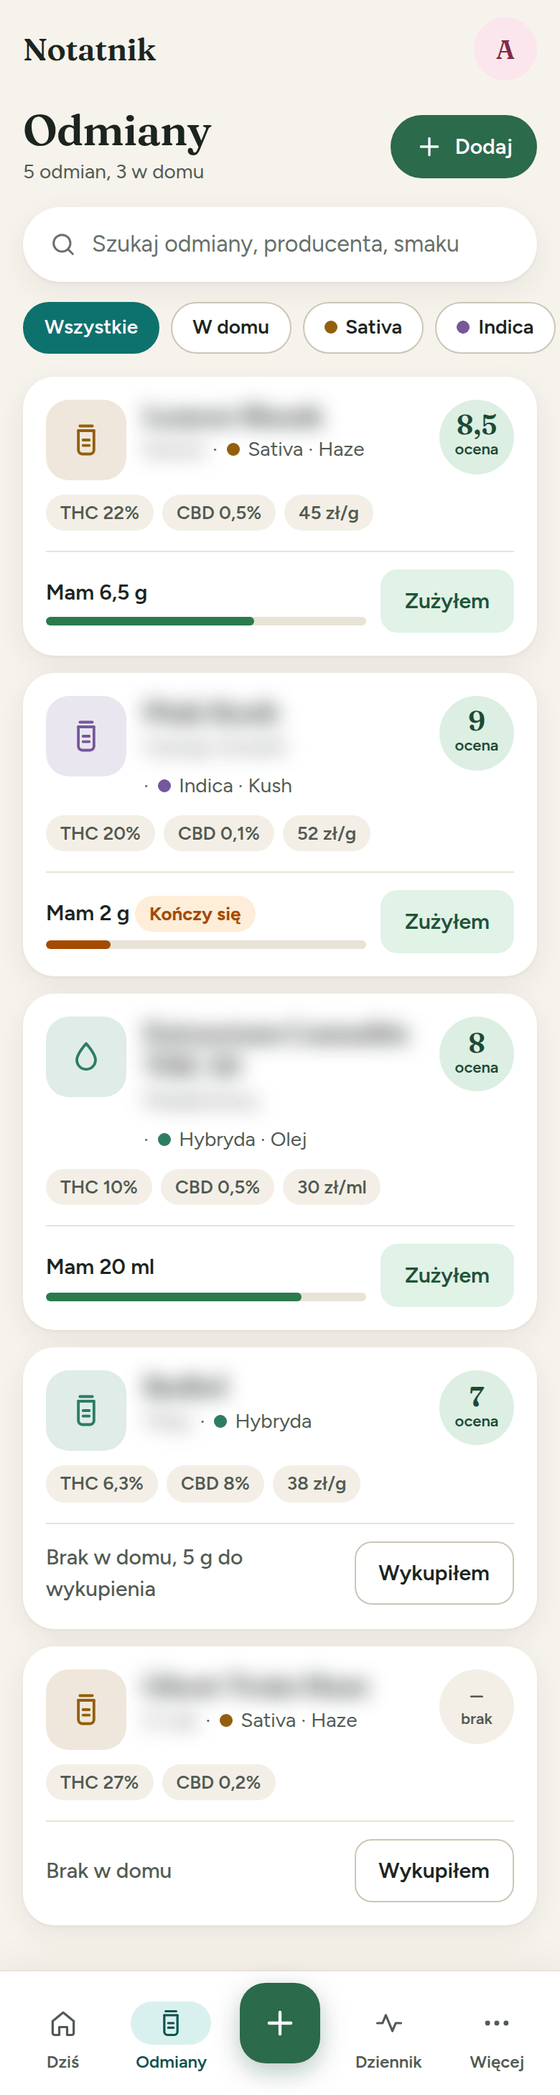
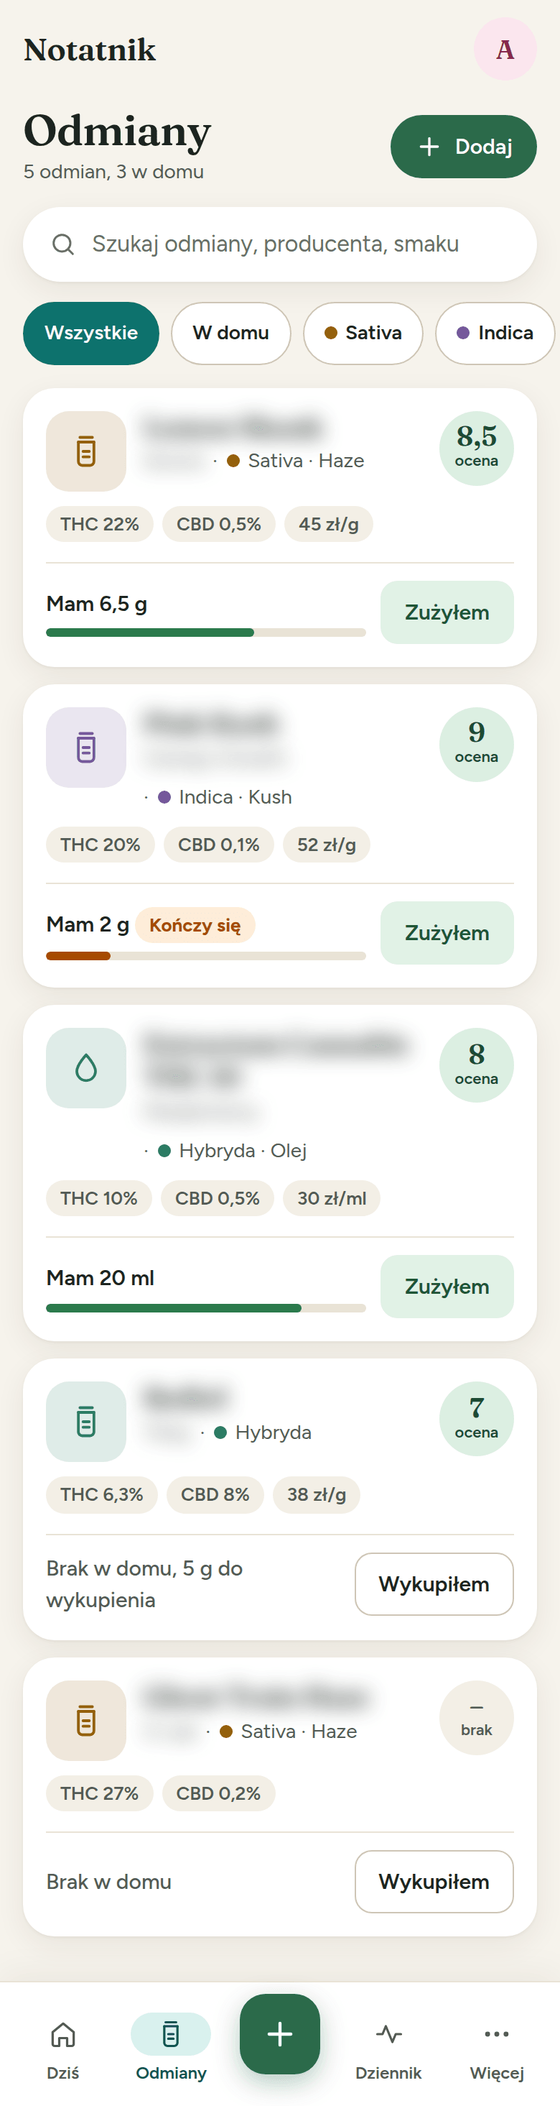
Design 3: cele dotykowe 44 px w makietach, kontrast przycisków na hero, rozłączne strumienie
Chipy i przełączniki segmentowe 44 px, przycisk drugorzędny na hero
przyciemniony (7,48:1), skrypt kontroli kontrastu w docs/design3, arkusz
Więcej i testy nawigacji w etapie 0, charts.css tylko w S3.

Claude-Session: https://claude.ai/code/session_017p6eXdBZFdhp5cmYPQACAa

diff --git a/docs/design3/a-odmiana.html b/docs/design3/a-odmiana.html
@@ -102,6 +102,7 @@ h2{font:600 19px/1.25 Fraunces,Georgia,serif;letter-spacing:-.01em}
 .s-stock{background:var(--cat-stock);color:var(--surface)}.s-journal{background:var(--cat-journal);color:var(--surface)}.s-rx{background:var(--cat-rx);color:var(--surface)}.s-strain{background:var(--cat-strain);color:var(--surface)}
 .w,.tag.w{background:var(--surface)}
 .nw{white-space:nowrap;display:inline-flex;align-items:center;gap:6px}
+.tap{display:inline-flex;align-items:center;min-height:44px}
 .shot-full .page{padding-bottom:20px}
 .ink-stock{color:var(--cat-stock-ink)}.ink-journal{color:var(--cat-journal-ink)}.ink-rx{color:var(--cat-rx-ink)}.ink-strain{color:var(--cat-strain-ink)}.ink-social{color:var(--cat-social-ink)}.ink-learn{color:var(--cat-learn-ink)}
 .sec-h{display:flex;align-items:center;gap:12px;margin-bottom:14px}
@@ -119,7 +120,7 @@ h2{font:600 19px/1.25 Fraunces,Georgia,serif;letter-spacing:-.01em}
 .btns{display:flex;gap:10px}.btns .btn{flex:1}
 .tiles{display:grid;grid-template-columns:repeat(4,1fr);gap:10px;margin-bottom:14px}
 .tile{background:var(--surface);border-radius:18px;box-shadow:var(--shadow-card);padding:12px 4px 10px;display:grid;justify-items:center;gap:6px;font-size:13px;font-weight:600;color:var(--text)}
-.chip{display:inline-flex;align-items:center;gap:6px;min-height:36px;padding:0 14px;border-radius:99px;font-size:14px;font-weight:600;background:var(--surface);color:var(--text);border:1px solid var(--sep-strong);white-space:nowrap}
+.chip{display:inline-flex;align-items:center;gap:6px;min-height:44px;padding:0 14px;border-radius:99px;font-size:14px;font-weight:600;background:var(--surface);color:var(--text);border:1px solid var(--sep-strong);white-space:nowrap}
 .chip.on{background:var(--cat-strain);color:var(--surface);border-color:var(--cat-strain)}
 .tag{display:inline-flex;align-items:center;gap:5px;padding:3px 10px;border-radius:99px;font-size:13px;font-weight:600;background:var(--surface-2);color:var(--text-2)}
 .kdot{width:9px;height:9px;border-radius:50%;display:inline-block}
@@ -186,7 +187,7 @@ h2{font:600 19px/1.25 Fraunces,Georgia,serif;letter-spacing:-.01em}
 <body>
 <header class="top"><div class="brand"><svg class="leaf" width="26" height="26" viewBox="0 0 100 100" fill="currentColor" aria-hidden="true"><ellipse cx="50" cy="46" rx="6" ry="40" transform="rotate(0 50 86)"/><ellipse cx="50" cy="52" rx="6" ry="34" transform="rotate(-28 50 86)"/><ellipse cx="50" cy="52" rx="6" ry="34" transform="rotate(28 50 86)"/><ellipse cx="50" cy="59" rx="5" ry="27" transform="rotate(-56 50 86)"/><ellipse cx="50" cy="59" rx="5" ry="27" transform="rotate(56 50 86)"/><ellipse cx="50" cy="68" rx="5" ry="18" transform="rotate(-80 50 86)"/><ellipse cx="50" cy="68" rx="5" ry="18" transform="rotate(80 50 86)"/><rect x="48.6" y="84" width="2.8" height="14" rx="1.4"/></svg><span class="bn-real">Zielnik</span><span class="bn-alt">Notatnik</span></div><div class="avatar">A</div></header>
 <main class="page">
-  <div class="row" style="justify-content:space-between;margin:4px 0 12px"><span class="row ink-strain" style="gap:4px;font-weight:600;min-height:44px"><svg class="i" width="20" height="20" viewBox="0 0 24 24" fill="none" stroke="currentColor" stroke-width="1.75" stroke-linecap="round" stroke-linejoin="round" aria-hidden="true"><path d="m15 6-6 6 6 6"/></svg>Odmiany</span><span class="dot sm w" style="box-shadow:var(--shadow-card);color:var(--text-2)"><svg class="i" width="18" height="18" viewBox="0 0 24 24" fill="none" stroke="currentColor" stroke-width="1.75" stroke-linecap="round" stroke-linejoin="round" aria-hidden="true"><path d="M4 20h4L19 9a2.1 2.1 0 0 0-3-3L5 17z"/></svg></span></div>
+  <div class="row" style="justify-content:space-between;margin:4px 0 12px"><span class="row ink-strain" style="gap:4px;font-weight:600;min-height:44px"><svg class="i" width="20" height="20" viewBox="0 0 24 24" fill="none" stroke="currentColor" stroke-width="1.75" stroke-linecap="round" stroke-linejoin="round" aria-hidden="true"><path d="m15 6-6 6 6 6"/></svg>Odmiany</span><span class="dot w" aria-label="Edytuj" style="box-shadow:var(--shadow-card);color:var(--text-2)"><svg class="i" width="20" height="20" viewBox="0 0 24 24" fill="none" stroke="currentColor" stroke-width="1.75" stroke-linecap="round" stroke-linejoin="round" aria-hidden="true"><path d="M4 20h4L19 9a2.1 2.1 0 0 0-3-3L5 17z"/></svg></span></div>
   <div class="hero-ill" style="background:linear-gradient(140deg,color-mix(in srgb,var(--kind-sativa) 22%,var(--surface)),color-mix(in srgb,var(--cat-learn) 10%,var(--surface)))">
     <svg width="358" height="200" viewBox="0 0 358 200" aria-hidden="true" style="position:absolute;inset:0">
       <circle cx="300" cy="40" r="70" fill="var(--surface)" opacity=".35"/><circle cx="40" cy="190" r="60" fill="var(--surface)" opacity=".3"/>

diff --git a/docs/design3/a-dziennik.html b/docs/design3/a-dziennik.html
@@ -102,6 +102,7 @@ h2{font:600 19px/1.25 Fraunces,Georgia,serif;letter-spacing:-.01em}
 .s-stock{background:var(--cat-stock);color:var(--surface)}.s-journal{background:var(--cat-journal);color:var(--surface)}.s-rx{background:var(--cat-rx);color:var(--surface)}.s-strain{background:var(--cat-strain);color:var(--surface)}
 .w,.tag.w{background:var(--surface)}
 .nw{white-space:nowrap;display:inline-flex;align-items:center;gap:6px}
+.tap{display:inline-flex;align-items:center;min-height:44px}
 .shot-full .page{padding-bottom:20px}
 .ink-stock{color:var(--cat-stock-ink)}.ink-journal{color:var(--cat-journal-ink)}.ink-rx{color:var(--cat-rx-ink)}.ink-strain{color:var(--cat-strain-ink)}.ink-social{color:var(--cat-social-ink)}.ink-learn{color:var(--cat-learn-ink)}
 .sec-h{display:flex;align-items:center;gap:12px;margin-bottom:14px}
@@ -119,7 +120,7 @@ h2{font:600 19px/1.25 Fraunces,Georgia,serif;letter-spacing:-.01em}
 .btns{display:flex;gap:10px}.btns .btn{flex:1}
 .tiles{display:grid;grid-template-columns:repeat(4,1fr);gap:10px;margin-bottom:14px}
 .tile{background:var(--surface);border-radius:18px;box-shadow:var(--shadow-card);padding:12px 4px 10px;display:grid;justify-items:center;gap:6px;font-size:13px;font-weight:600;color:var(--text)}
-.chip{display:inline-flex;align-items:center;gap:6px;min-height:36px;padding:0 14px;border-radius:99px;font-size:14px;font-weight:600;background:var(--surface);color:var(--text);border:1px solid var(--sep-strong);white-space:nowrap}
+.chip{display:inline-flex;align-items:center;gap:6px;min-height:44px;padding:0 14px;border-radius:99px;font-size:14px;font-weight:600;background:var(--surface);color:var(--text);border:1px solid var(--sep-strong);white-space:nowrap}
 .chip.on{background:var(--cat-strain);color:var(--surface);border-color:var(--cat-strain)}
 .tag{display:inline-flex;align-items:center;gap:5px;padding:3px 10px;border-radius:99px;font-size:13px;font-weight:600;background:var(--surface-2);color:var(--text-2)}
 .kdot{width:9px;height:9px;border-radius:50%;display:inline-block}
@@ -201,7 +202,7 @@ h2{font:600 19px/1.25 Fraunces,Georgia,serif;letter-spacing:-.01em}
       <div class="ends"><span>0 = bardzo zły</span><span>10 = bardzo dobry</span></div></div>
     <div class="btns" style="margin-top:8px"><span class="btn">Zapisz zmiany</span></div>
   </section>
-  <div class="row" style="margin:20px 2px 10px"><h2 class="grow">Ostatnie 30 dni</h2><span class="nw sub ink-journal" style="font-weight:600;gap:2px">Raport <svg class="i" width="16" height="16" viewBox="0 0 24 24" fill="none" stroke="currentColor" stroke-width="1.75" stroke-linecap="round" stroke-linejoin="round" aria-hidden="true"><path d="m9 6 6 6-6 6"/></svg></span></div>
+  <div class="row" style="margin:20px 2px 10px"><h2 class="grow">Ostatnie 30 dni</h2><span class="nw sub ink-journal tap" style="font-weight:600;gap:2px">Raport <svg class="i" width="16" height="16" viewBox="0 0 24 24" fill="none" stroke="currentColor" stroke-width="1.75" stroke-linecap="round" stroke-linejoin="round" aria-hidden="true"><path d="m9 6 6 6-6 6"/></svg></span></div>
   <div class="mini">
     <div class="card"><div class="row" style="gap:8px"><span class="dot sm d-journal" style="width:32px;height:32px"><svg class="i" width="16" height="16" viewBox="0 0 24 24" fill="none" stroke="currentColor" stroke-width="1.75" stroke-linecap="round" stroke-linejoin="round" aria-hidden="true"><path d="M13 3 5 13.5h6L10 21l9-11h-6z"/></svg></span><span style="font-weight:600;font-size:15px" class="grow">Ból</span></div>
       <div class="row" style="margin:8px 0 2px;gap:8px"><b style="font:600 28px/1 Fraunces" class="num">3</b><span class="trend good"><svg class="i" width="14" height="14" viewBox="0 0 24 24" fill="none" stroke="currentColor" stroke-width="2.2" stroke-linecap="round" stroke-linejoin="round" aria-hidden="true"><path d="m3 7 6 6 4-4 8 8"/><path d="M15 17h6v-6"/></svg>2 pkt</span></div>

diff --git a/docs/design3/b-dziennik.html b/docs/design3/b-dziennik.html
@@ -111,7 +111,7 @@ body{font-feature-settings:"tnum" 0}
 .hbtns{display:flex;gap:10px;margin-top:20px}
 .hbtns span{flex:1;display:inline-flex;align-items:center;justify-content:center;gap:8px;min-height:50px;border-radius:14px;font:700 16px Figtree}
 .hb1{background:#fff;color:var(--hero-2)}
-.hb2{background:rgba(255,255,255,.14);color:#fff;border:1.5px solid rgba(255,255,255,.4)}
+.hb2{background:rgba(0,0,0,.18);color:#fff;border:1.5px solid rgba(255,255,255,.5)}
 .page{padding:0 16px 112px}
 .shot-full .page{padding-bottom:20px}
 .lift{margin-top:-46px;position:relative}
@@ -133,7 +133,7 @@ body{font-feature-settings:"tnum" 0}
 h2{font:700 18px/1.25 Figtree,sans-serif;letter-spacing:-.01em}
 .ch h2{flex:1}
 .seg{display:flex;background:var(--surface-2);border-radius:12px;padding:3px;gap:3px}
-.seg span{flex:1;text-align:center;min-height:38px;display:grid;place-items:center;border-radius:9px;font-size:14px;font-weight:700;color:var(--text-2)}
+.seg span{flex:1;text-align:center;min-height:44px;display:grid;place-items:center;border-radius:9px;font-size:14px;font-weight:700;color:var(--text-2)}
 .seg span.on{background:var(--surface);color:var(--text);box-shadow:0 1px 3px rgba(0,0,0,.12)}
 .axis{display:flex;justify-content:space-between;font-size:12px;color:var(--text-2);margin-top:6px}.axis b{color:var(--text)}
 .lrow{display:flex;align-items:center;gap:12px;padding:12px 0;min-height:60px}
@@ -188,7 +188,7 @@ h1.pt{font:800 28px/1.15 Figtree;letter-spacing:-.02em;margin:18px 0 4px}
     <svg class="deco" width="358" height="230" viewBox="0 0 358 230" aria-hidden="true" style="position:absolute;inset:0"><circle cx="320" cy="30" r="90" fill="#fff" opacity=".07"/></svg>
     <div style="display:flex;align-items:center;gap:10px;position:relative"><span class="sq w"><svg class="i" width="22" height="22" viewBox="0 0 24 24" fill="none" stroke="currentColor" stroke-width="1.75" stroke-linecap="round" stroke-linejoin="round" aria-hidden="true"><path d="M3 12h4l2.5-6 5 12 2.5-6h4"/></svg></span><div style="flex:1"><p style="font:800 22px Figtree">Dziennik objawów</p><p style="font-size:14px;color:rgba(255,255,255,.9)">Dziś, wpis zapisany o 9:12</p></div></div>
     <div class="mv"><div><b>3</b><span>Ból</span></div><div><b>8</b><span>Sen</span></div><div><b>2</b><span>Lęk</span></div><div><b>8</b><span>Nastrój</span></div></div>
-    <div style="display:flex;gap:10px;margin-top:14px;position:relative"><span class="hb1" style="flex:1;display:inline-flex;justify-content:center;align-items:center;min-height:48px;border-radius:14px;font:700 16px Figtree;background:#fff;color:var(--cat-journal)">Zmień wpis</span><span class="hb2" style="flex:1;display:inline-flex;justify-content:center;align-items:center;min-height:48px;border-radius:14px;font:700 16px Figtree;background:rgba(255,255,255,.14);color:#fff;border:1.5px solid rgba(255,255,255,.4)">Raport</span></div>
+    <div style="display:flex;gap:10px;margin-top:14px;position:relative"><span class="hb1" style="flex:1;display:inline-flex;justify-content:center;align-items:center;min-height:48px;border-radius:14px;font:700 16px Figtree;background:#fff;color:var(--cat-journal)">Zmień wpis</span><span class="hb2" style="flex:1;display:inline-flex;justify-content:center;align-items:center;min-height:48px;border-radius:14px;font:700 16px Figtree;background:rgba(0,0,0,.18);color:#fff;border:1.5px solid rgba(255,255,255,.5)">Raport</span></div>
   </div>
   <div style="display:flex;align-items:center;margin:4px 2px 12px"><h2 style="flex:1">Ostatnie 30 dni</h2><div class="seg" style="width:180px"><span class="on">Osobno</span><span>Razem</span></div></div>
   <section class="card" style="padding:4px 16px">

diff --git a/docs/design3/a-dzis-ciemny.html b/docs/design3/a-dzis-ciemny.html
@@ -102,6 +102,7 @@ h2{font:600 19px/1.25 Fraunces,Georgia,serif;letter-spacing:-.01em}
 .s-stock{background:var(--cat-stock);color:var(--surface)}.s-journal{background:var(--cat-journal);color:var(--surface)}.s-rx{background:var(--cat-rx);color:var(--surface)}.s-strain{background:var(--cat-strain);color:var(--surface)}
 .w,.tag.w{background:var(--surface)}
 .nw{white-space:nowrap;display:inline-flex;align-items:center;gap:6px}
+.tap{display:inline-flex;align-items:center;min-height:44px}
 .shot-full .page{padding-bottom:20px}
 .ink-stock{color:var(--cat-stock-ink)}.ink-journal{color:var(--cat-journal-ink)}.ink-rx{color:var(--cat-rx-ink)}.ink-strain{color:var(--cat-strain-ink)}.ink-social{color:var(--cat-social-ink)}.ink-learn{color:var(--cat-learn-ink)}
 .sec-h{display:flex;align-items:center;gap:12px;margin-bottom:14px}
@@ -119,7 +120,7 @@ h2{font:600 19px/1.25 Fraunces,Georgia,serif;letter-spacing:-.01em}
 .btns{display:flex;gap:10px}.btns .btn{flex:1}
 .tiles{display:grid;grid-template-columns:repeat(4,1fr);gap:10px;margin-bottom:14px}
 .tile{background:var(--surface);border-radius:18px;box-shadow:var(--shadow-card);padding:12px 4px 10px;display:grid;justify-items:center;gap:6px;font-size:13px;font-weight:600;color:var(--text)}
-.chip{display:inline-flex;align-items:center;gap:6px;min-height:36px;padding:0 14px;border-radius:99px;font-size:14px;font-weight:600;background:var(--surface);color:var(--text);border:1px solid var(--sep-strong);white-space:nowrap}
+.chip{display:inline-flex;align-items:center;gap:6px;min-height:44px;padding:0 14px;border-radius:99px;font-size:14px;font-weight:600;background:var(--surface);color:var(--text);border:1px solid var(--sep-strong);white-space:nowrap}
 .chip.on{background:var(--cat-strain);color:var(--surface);border-color:var(--cat-strain)}
 .tag{display:inline-flex;align-items:center;gap:5px;padding:3px 10px;border-radius:99px;font-size:13px;font-weight:600;background:var(--surface-2);color:var(--text-2)}
 .kdot{width:9px;height:9px;border-radius:50%;display:inline-block}
@@ -217,7 +218,7 @@ h2{font:600 19px/1.25 Fraunces,Georgia,serif;letter-spacing:-.01em}
   </section>
 
   <section class="card">
-    <div class="sec-h" style="margin-bottom:4px"><span class="dot sm d-rx"><svg class="i" width="18" height="18" viewBox="0 0 24 24" fill="none" stroke="currentColor" stroke-width="1.75" stroke-linecap="round" stroke-linejoin="round" aria-hidden="true"><path d="M14 3H6.5A1.5 1.5 0 0 0 5 4.5v15A1.5 1.5 0 0 0 6.5 21h11a1.5 1.5 0 0 0 1.5-1.5V8z"/><path d="M14 3v5h5M9 13h6M9 17h6"/></svg></span><h2>Recepty</h2><span class="sub ink-rx" style="font-weight:600">Wszystkie (3)</span></div>
+    <div class="sec-h" style="margin-bottom:4px"><span class="dot sm d-rx"><svg class="i" width="18" height="18" viewBox="0 0 24 24" fill="none" stroke="currentColor" stroke-width="1.75" stroke-linecap="round" stroke-linejoin="round" aria-hidden="true"><path d="M14 3H6.5A1.5 1.5 0 0 0 5 4.5v15A1.5 1.5 0 0 0 6.5 21h11a1.5 1.5 0 0 0 1.5-1.5V8z"/><path d="M14 3v5h5M9 13h6M9 17h6"/></svg></span><h2>Recepty</h2><span class="sub ink-rx tap" style="font-weight:600">Wszystkie (3)</span></div>
     <div class="rx"><div class="days"><b class="num">8</b><span>dni</span></div><div class="grow"><b>Olej, 30 ml</b><p class="sub">Do wykupienia 20 ml, ważna do 17 października</p><div class="thin"><i style="width:33%"></i></div></div></div>
     <div class="rx"><div class="days"><b class="num">10</b><span>dni</span></div><div class="grow"><b>Susz, 30 g</b><p class="sub">Do wykupienia 20 g, ważna do 19 października</p><div class="thin"><i style="width:33%"></i></div></div></div>
   </section>

diff --git a/docs/design3/a-dzis-dyskretny.html b/docs/design3/a-dzis-dyskretny.html
@@ -102,6 +102,7 @@ h2{font:600 19px/1.25 Fraunces,Georgia,serif;letter-spacing:-.01em}
 .s-stock{background:var(--cat-stock);color:var(--surface)}.s-journal{background:var(--cat-journal);color:var(--surface)}.s-rx{background:var(--cat-rx);color:var(--surface)}.s-strain{background:var(--cat-strain);color:var(--surface)}
 .w,.tag.w{background:var(--surface)}
 .nw{white-space:nowrap;display:inline-flex;align-items:center;gap:6px}
+.tap{display:inline-flex;align-items:center;min-height:44px}
 .shot-full .page{padding-bottom:20px}
 .ink-stock{color:var(--cat-stock-ink)}.ink-journal{color:var(--cat-journal-ink)}.ink-rx{color:var(--cat-rx-ink)}.ink-strain{color:var(--cat-strain-ink)}.ink-social{color:var(--cat-social-ink)}.ink-learn{color:var(--cat-learn-ink)}
 .sec-h{display:flex;align-items:center;gap:12px;margin-bottom:14px}
@@ -119,7 +120,7 @@ h2{font:600 19px/1.25 Fraunces,Georgia,serif;letter-spacing:-.01em}
 .btns{display:flex;gap:10px}.btns .btn{flex:1}
 .tiles{display:grid;grid-template-columns:repeat(4,1fr);gap:10px;margin-bottom:14px}
 .tile{background:var(--surface);border-radius:18px;box-shadow:var(--shadow-card);padding:12px 4px 10px;display:grid;justify-items:center;gap:6px;font-size:13px;font-weight:600;color:var(--text)}
-.chip{display:inline-flex;align-items:center;gap:6px;min-height:36px;padding:0 14px;border-radius:99px;font-size:14px;font-weight:600;background:var(--surface);color:var(--text);border:1px solid var(--sep-strong);white-space:nowrap}
+.chip{display:inline-flex;align-items:center;gap:6px;min-height:44px;padding:0 14px;border-radius:99px;font-size:14px;font-weight:600;background:var(--surface);color:var(--text);border:1px solid var(--sep-strong);white-space:nowrap}
 .chip.on{background:var(--cat-strain);color:var(--surface);border-color:var(--cat-strain)}
 .tag{display:inline-flex;align-items:center;gap:5px;padding:3px 10px;border-radius:99px;font-size:13px;font-weight:600;background:var(--surface-2);color:var(--text-2)}
 .kdot{width:9px;height:9px;border-radius:50%;display:inline-block}
@@ -217,7 +218,7 @@ h2{font:600 19px/1.25 Fraunces,Georgia,serif;letter-spacing:-.01em}
   </section>
 
   <section class="card">
-    <div class="sec-h" style="margin-bottom:4px"><span class="dot sm d-rx"><svg class="i" width="18" height="18" viewBox="0 0 24 24" fill="none" stroke="currentColor" stroke-width="1.75" stroke-linecap="round" stroke-linejoin="round" aria-hidden="true"><path d="M14 3H6.5A1.5 1.5 0 0 0 5 4.5v15A1.5 1.5 0 0 0 6.5 21h11a1.5 1.5 0 0 0 1.5-1.5V8z"/><path d="M14 3v5h5M9 13h6M9 17h6"/></svg></span><h2>Recepty</h2><span class="sub ink-rx" style="font-weight:600">Wszystkie (3)</span></div>
+    <div class="sec-h" style="margin-bottom:4px"><span class="dot sm d-rx"><svg class="i" width="18" height="18" viewBox="0 0 24 24" fill="none" stroke="currentColor" stroke-width="1.75" stroke-linecap="round" stroke-linejoin="round" aria-hidden="true"><path d="M14 3H6.5A1.5 1.5 0 0 0 5 4.5v15A1.5 1.5 0 0 0 6.5 21h11a1.5 1.5 0 0 0 1.5-1.5V8z"/><path d="M14 3v5h5M9 13h6M9 17h6"/></svg></span><h2>Recepty</h2><span class="sub ink-rx tap" style="font-weight:600">Wszystkie (3)</span></div>
     <div class="rx"><div class="days"><b class="num">8</b><span>dni</span></div><div class="grow"><b>Olej, 30 ml</b><p class="sub">Do wykupienia 20 ml, ważna do 17 października</p><div class="thin"><i style="width:33%"></i></div></div></div>
     <div class="rx"><div class="days"><b class="num">10</b><span>dni</span></div><div class="grow"><b>Susz, 30 g</b><p class="sub">Do wykupienia 20 g, ważna do 19 października</p><div class="thin"><i style="width:33%"></i></div></div></div>
   </section>

diff --git a/docs/design3/a-dzis.html b/docs/design3/a-dzis.html
@@ -102,6 +102,7 @@ h2{font:600 19px/1.25 Fraunces,Georgia,serif;letter-spacing:-.01em}
 .s-stock{background:var(--cat-stock);color:var(--surface)}.s-journal{background:var(--cat-journal);color:var(--surface)}.s-rx{background:var(--cat-rx);color:var(--surface)}.s-strain{background:var(--cat-strain);color:var(--surface)}
 .w,.tag.w{background:var(--surface)}
 .nw{white-space:nowrap;display:inline-flex;align-items:center;gap:6px}
+.tap{display:inline-flex;align-items:center;min-height:44px}
 .shot-full .page{padding-bottom:20px}
 .ink-stock{color:var(--cat-stock-ink)}.ink-journal{color:var(--cat-journal-ink)}.ink-rx{color:var(--cat-rx-ink)}.ink-strain{color:var(--cat-strain-ink)}.ink-social{color:var(--cat-social-ink)}.ink-learn{color:var(--cat-learn-ink)}
 .sec-h{display:flex;align-items:center;gap:12px;margin-bottom:14px}
@@ -119,7 +120,7 @@ h2{font:600 19px/1.25 Fraunces,Georgia,serif;letter-spacing:-.01em}
 .btns{display:flex;gap:10px}.btns .btn{flex:1}
 .tiles{display:grid;grid-template-columns:repeat(4,1fr);gap:10px;margin-bottom:14px}
 .tile{background:var(--surface);border-radius:18px;box-shadow:var(--shadow-card);padding:12px 4px 10px;display:grid;justify-items:center;gap:6px;font-size:13px;font-weight:600;color:var(--text)}
-.chip{display:inline-flex;align-items:center;gap:6px;min-height:36px;padding:0 14px;border-radius:99px;font-size:14px;font-weight:600;background:var(--surface);color:var(--text);border:1px solid var(--sep-strong);white-space:nowrap}
+.chip{display:inline-flex;align-items:center;gap:6px;min-height:44px;padding:0 14px;border-radius:99px;font-size:14px;font-weight:600;background:var(--surface);color:var(--text);border:1px solid var(--sep-strong);white-space:nowrap}
 .chip.on{background:var(--cat-strain);color:var(--surface);border-color:var(--cat-strain)}
 .tag{display:inline-flex;align-items:center;gap:5px;padding:3px 10px;border-radius:99px;font-size:13px;font-weight:600;background:var(--surface-2);color:var(--text-2)}
 .kdot{width:9px;height:9px;border-radius:50%;display:inline-block}
@@ -217,7 +218,7 @@ h2{font:600 19px/1.25 Fraunces,Georgia,serif;letter-spacing:-.01em}
   </section>
 
   <section class="card">
-    <div class="sec-h" style="margin-bottom:4px"><span class="dot sm d-rx"><svg class="i" width="18" height="18" viewBox="0 0 24 24" fill="none" stroke="currentColor" stroke-width="1.75" stroke-linecap="round" stroke-linejoin="round" aria-hidden="true"><path d="M14 3H6.5A1.5 1.5 0 0 0 5 4.5v15A1.5 1.5 0 0 0 6.5 21h11a1.5 1.5 0 0 0 1.5-1.5V8z"/><path d="M14 3v5h5M9 13h6M9 17h6"/></svg></span><h2>Recepty</h2><span class="sub ink-rx" style="font-weight:600">Wszystkie (3)</span></div>
+    <div class="sec-h" style="margin-bottom:4px"><span class="dot sm d-rx"><svg class="i" width="18" height="18" viewBox="0 0 24 24" fill="none" stroke="currentColor" stroke-width="1.75" stroke-linecap="round" stroke-linejoin="round" aria-hidden="true"><path d="M14 3H6.5A1.5 1.5 0 0 0 5 4.5v15A1.5 1.5 0 0 0 6.5 21h11a1.5 1.5 0 0 0 1.5-1.5V8z"/><path d="M14 3v5h5M9 13h6M9 17h6"/></svg></span><h2>Recepty</h2><span class="sub ink-rx tap" style="font-weight:600">Wszystkie (3)</span></div>
     <div class="rx"><div class="days"><b class="num">8</b><span>dni</span></div><div class="grow"><b>Olej, 30 ml</b><p class="sub">Do wykupienia 20 ml, ważna do 17 października</p><div class="thin"><i style="width:33%"></i></div></div></div>
     <div class="rx"><div class="days"><b class="num">10</b><span>dni</span></div><div class="grow"><b>Susz, 30 g</b><p class="sub">Do wykupienia 20 g, ważna do 19 października</p><div class="thin"><i style="width:33%"></i></div></div></div>
   </section>

diff --git a/docs/design3/a-odmiany-dyskretny.html b/docs/design3/a-odmiany-dyskretny.html
@@ -102,6 +102,7 @@ h2{font:600 19px/1.25 Fraunces,Georgia,serif;letter-spacing:-.01em}
 .s-stock{background:var(--cat-stock);color:var(--surface)}.s-journal{background:var(--cat-journal);color:var(--surface)}.s-rx{background:var(--cat-rx);color:var(--surface)}.s-strain{background:var(--cat-strain);color:var(--surface)}
 .w,.tag.w{background:var(--surface)}
 .nw{white-space:nowrap;display:inline-flex;align-items:center;gap:6px}
+.tap{display:inline-flex;align-items:center;min-height:44px}
 .shot-full .page{padding-bottom:20px}
 .ink-stock{color:var(--cat-stock-ink)}.ink-journal{color:var(--cat-journal-ink)}.ink-rx{color:var(--cat-rx-ink)}.ink-strain{color:var(--cat-strain-ink)}.ink-social{color:var(--cat-social-ink)}.ink-learn{color:var(--cat-learn-ink)}
 .sec-h{display:flex;align-items:center;gap:12px;margin-bottom:14px}
@@ -119,7 +120,7 @@ h2{font:600 19px/1.25 Fraunces,Georgia,serif;letter-spacing:-.01em}
 .btns{display:flex;gap:10px}.btns .btn{flex:1}
 .tiles{display:grid;grid-template-columns:repeat(4,1fr);gap:10px;margin-bottom:14px}
 .tile{background:var(--surface);border-radius:18px;box-shadow:var(--shadow-card);padding:12px 4px 10px;display:grid;justify-items:center;gap:6px;font-size:13px;font-weight:600;color:var(--text)}
-.chip{display:inline-flex;align-items:center;gap:6px;min-height:36px;padding:0 14px;border-radius:99px;font-size:14px;font-weight:600;background:var(--surface);color:var(--text);border:1px solid var(--sep-strong);white-space:nowrap}
+.chip{display:inline-flex;align-items:center;gap:6px;min-height:44px;padding:0 14px;border-radius:99px;font-size:14px;font-weight:600;background:var(--surface);color:var(--text);border:1px solid var(--sep-strong);white-space:nowrap}
 .chip.on{background:var(--cat-strain);color:var(--surface);border-color:var(--cat-strain)}
 .tag{display:inline-flex;align-items:center;gap:5px;padding:3px 10px;border-radius:99px;font-size:13px;font-weight:600;background:var(--surface-2);color:var(--text-2)}
 .kdot{width:9px;height:9px;border-radius:50%;display:inline-block}

diff --git a/docs/design3/a-odmiany.html b/docs/design3/a-odmiany.html
@@ -102,6 +102,7 @@ h2{font:600 19px/1.25 Fraunces,Georgia,serif;letter-spacing:-.01em}
 .s-stock{background:var(--cat-stock);color:var(--surface)}.s-journal{background:var(--cat-journal);color:var(--surface)}.s-rx{background:var(--cat-rx);color:var(--surface)}.s-strain{background:var(--cat-strain);color:var(--surface)}
 .w,.tag.w{background:var(--surface)}
 .nw{white-space:nowrap;display:inline-flex;align-items:center;gap:6px}
+.tap{display:inline-flex;align-items:center;min-height:44px}
 .shot-full .page{padding-bottom:20px}
 .ink-stock{color:var(--cat-stock-ink)}.ink-journal{color:var(--cat-journal-ink)}.ink-rx{color:var(--cat-rx-ink)}.ink-strain{color:var(--cat-strain-ink)}.ink-social{color:var(--cat-social-ink)}.ink-learn{color:var(--cat-learn-ink)}
 .sec-h{display:flex;align-items:center;gap:12px;margin-bottom:14px}
@@ -119,7 +120,7 @@ h2{font:600 19px/1.25 Fraunces,Georgia,serif;letter-spacing:-.01em}
 .btns{display:flex;gap:10px}.btns .btn{flex:1}
 .tiles{display:grid;grid-template-columns:repeat(4,1fr);gap:10px;margin-bottom:14px}
 .tile{background:var(--surface);border-radius:18px;box-shadow:var(--shadow-card);padding:12px 4px 10px;display:grid;justify-items:center;gap:6px;font-size:13px;font-weight:600;color:var(--text)}
-.chip{display:inline-flex;align-items:center;gap:6px;min-height:36px;padding:0 14px;border-radius:99px;font-size:14px;font-weight:600;background:var(--surface);color:var(--text);border:1px solid var(--sep-strong);white-space:nowrap}
+.chip{display:inline-flex;align-items:center;gap:6px;min-height:44px;padding:0 14px;border-radius:99px;font-size:14px;font-weight:600;background:var(--surface);color:var(--text);border:1px solid var(--sep-strong);white-space:nowrap}
 .chip.on{background:var(--cat-strain);color:var(--surface);border-color:var(--cat-strain)}
 .tag{display:inline-flex;align-items:center;gap:5px;padding:3px 10px;border-radius:99px;font-size:13px;font-weight:600;background:var(--surface-2);color:var(--text-2)}
 .kdot{width:9px;height:9px;border-radius:50%;display:inline-block}

diff --git a/docs/design3/b-dzis-ciemny.html b/docs/design3/b-dzis-ciemny.html
@@ -111,7 +111,7 @@ body{font-feature-settings:"tnum" 0}
 .hbtns{display:flex;gap:10px;margin-top:20px}
 .hbtns span{flex:1;display:inline-flex;align-items:center;justify-content:center;gap:8px;min-height:50px;border-radius:14px;font:700 16px Figtree}
 .hb1{background:#fff;color:var(--hero-2)}
-.hb2{background:rgba(255,255,255,.14);color:#fff;border:1.5px solid rgba(255,255,255,.4)}
+.hb2{background:rgba(0,0,0,.18);color:#fff;border:1.5px solid rgba(255,255,255,.5)}
 .page{padding:0 16px 112px}
 .shot-full .page{padding-bottom:20px}
 .lift{margin-top:-46px;position:relative}
@@ -133,7 +133,7 @@ body{font-feature-settings:"tnum" 0}
 h2{font:700 18px/1.25 Figtree,sans-serif;letter-spacing:-.01em}
 .ch h2{flex:1}
 .seg{display:flex;background:var(--surface-2);border-radius:12px;padding:3px;gap:3px}
-.seg span{flex:1;text-align:center;min-height:38px;display:grid;place-items:center;border-radius:9px;font-size:14px;font-weight:700;color:var(--text-2)}
+.seg span{flex:1;text-align:center;min-height:44px;display:grid;place-items:center;border-radius:9px;font-size:14px;font-weight:700;color:var(--text-2)}
 .seg span.on{background:var(--surface);color:var(--text);box-shadow:0 1px 3px rgba(0,0,0,.12)}
 .axis{display:flex;justify-content:space-between;font-size:12px;color:var(--text-2);margin-top:6px}.axis b{color:var(--text)}
 .lrow{display:flex;align-items:center;gap:12px;padding:12px 0;min-height:60px}

diff --git a/docs/design3/b-dzis.html b/docs/design3/b-dzis.html
@@ -111,7 +111,7 @@ body{font-feature-settings:"tnum" 0}
 .hbtns{display:flex;gap:10px;margin-top:20px}
 .hbtns span{flex:1;display:inline-flex;align-items:center;justify-content:center;gap:8px;min-height:50px;border-radius:14px;font:700 16px Figtree}
 .hb1{background:#fff;color:var(--hero-2)}
-.hb2{background:rgba(255,255,255,.14);color:#fff;border:1.5px solid rgba(255,255,255,.4)}
+.hb2{background:rgba(0,0,0,.18);color:#fff;border:1.5px solid rgba(255,255,255,.5)}
 .page{padding:0 16px 112px}
 .shot-full .page{padding-bottom:20px}
 .lift{margin-top:-46px;position:relative}
@@ -133,7 +133,7 @@ body{font-feature-settings:"tnum" 0}
 h2{font:700 18px/1.25 Figtree,sans-serif;letter-spacing:-.01em}
 .ch h2{flex:1}
 .seg{display:flex;background:var(--surface-2);border-radius:12px;padding:3px;gap:3px}
-.seg span{flex:1;text-align:center;min-height:38px;display:grid;place-items:center;border-radius:9px;font-size:14px;font-weight:700;color:var(--text-2)}
+.seg span{flex:1;text-align:center;min-height:44px;display:grid;place-items:center;border-radius:9px;font-size:14px;font-weight:700;color:var(--text-2)}
 .seg span.on{background:var(--surface);color:var(--text);box-shadow:0 1px 3px rgba(0,0,0,.12)}
 .axis{display:flex;justify-content:space-between;font-size:12px;color:var(--text-2);margin-top:6px}.axis b{color:var(--text)}
 .lrow{display:flex;align-items:center;gap:12px;padding:12px 0;min-height:60px}

diff --git a/docs/design3/b-odmiana.html b/docs/design3/b-odmiana.html
@@ -111,7 +111,7 @@ body{font-feature-settings:"tnum" 0}
 .hbtns{display:flex;gap:10px;margin-top:20px}
 .hbtns span{flex:1;display:inline-flex;align-items:center;justify-content:center;gap:8px;min-height:50px;border-radius:14px;font:700 16px Figtree}
 .hb1{background:#fff;color:var(--hero-2)}
-.hb2{background:rgba(255,255,255,.14);color:#fff;border:1.5px solid rgba(255,255,255,.4)}
+.hb2{background:rgba(0,0,0,.18);color:#fff;border:1.5px solid rgba(255,255,255,.5)}
 .page{padding:0 16px 112px}
 .shot-full .page{padding-bottom:20px}
 .lift{margin-top:-46px;position:relative}
@@ -133,7 +133,7 @@ body{font-feature-settings:"tnum" 0}
 h2{font:700 18px/1.25 Figtree,sans-serif;letter-spacing:-.01em}
 .ch h2{flex:1}
 .seg{display:flex;background:var(--surface-2);border-radius:12px;padding:3px;gap:3px}
-.seg span{flex:1;text-align:center;min-height:38px;display:grid;place-items:center;border-radius:9px;font-size:14px;font-weight:700;color:var(--text-2)}
+.seg span{flex:1;text-align:center;min-height:44px;display:grid;place-items:center;border-radius:9px;font-size:14px;font-weight:700;color:var(--text-2)}
 .seg span.on{background:var(--surface);color:var(--text);box-shadow:0 1px 3px rgba(0,0,0,.12)}
 .axis{display:flex;justify-content:space-between;font-size:12px;color:var(--text-2);margin-top:6px}.axis b{color:var(--text)}
 .lrow{display:flex;align-items:center;gap:12px;padding:12px 0;min-height:60px}

diff --git a/docs/design3/b-odmiany.html b/docs/design3/b-odmiany.html
@@ -111,7 +111,7 @@ body{font-feature-settings:"tnum" 0}
 .hbtns{display:flex;gap:10px;margin-top:20px}
 .hbtns span{flex:1;display:inline-flex;align-items:center;justify-content:center;gap:8px;min-height:50px;border-radius:14px;font:700 16px Figtree}
 .hb1{background:#fff;color:var(--hero-2)}
-.hb2{background:rgba(255,255,255,.14);color:#fff;border:1.5px solid rgba(255,255,255,.4)}
+.hb2{background:rgba(0,0,0,.18);color:#fff;border:1.5px solid rgba(255,255,255,.5)}
 .page{padding:0 16px 112px}
 .shot-full .page{padding-bottom:20px}
 .lift{margin-top:-46px;position:relative}
@@ -133,7 +133,7 @@ body{font-feature-settings:"tnum" 0}
 h2{font:700 18px/1.25 Figtree,sans-serif;letter-spacing:-.01em}
 .ch h2{flex:1}
 .seg{display:flex;background:var(--surface-2);border-radius:12px;padding:3px;gap:3px}
-.seg span{flex:1;text-align:center;min-height:38px;display:grid;place-items:center;border-radius:9px;font-size:14px;font-weight:700;color:var(--text-2)}
+.seg span{flex:1;text-align:center;min-height:44px;display:grid;place-items:center;border-radius:9px;font-size:14px;font-weight:700;color:var(--text-2)}
 .seg span.on{background:var(--surface);color:var(--text);box-shadow:0 1px 3px rgba(0,0,0,.12)}
 .axis{display:flex;justify-content:space-between;font-size:12px;color:var(--text-2);margin-top:6px}.axis b{color:var(--text)}
 .lrow{display:flex;align-items:center;gap:12px;padding:12px 0;min-height:60px}
